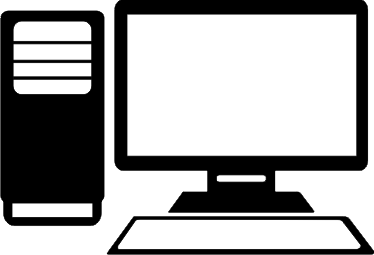
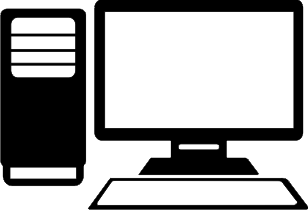
Shrink the images more Eager loading of the images Update the text in the contact form

diff --git a/app/stylesheets/custom.scss b/app/stylesheets/custom.scss
@@ -1,5 +1,13 @@
 @import 'bootstrap';
 
+@mixin rotate-object($deg) {
+  -webkit-transform: rotate($deg);
+  -moz-transform: rotate($deg);
+  -o-transform: rotate($deg);
+  -ms-transform: rotate($deg);
+  transform: rotate($deg);
+}
+
 input.incorrect, textarea.incorrect {
   border-color: rgba(82, 168, 236, 0.8);
   outline: 0;
@@ -110,7 +118,7 @@ footer {
 h1 {
   width: 100%;
   text-align: center;
-  margin-bottom: 5%;
+  margin-bottom: 1.5em;
 }
 
 label {
@@ -146,32 +154,47 @@ input {
   margin-top: 1em;
 }
 
-.step h2 {
-  /*background: url('Icons/cloud.svg');*/
-  background: url('images/cloud.svg') no-repeat;
-  color: #245783;
-  font-weight: 500;
+.icons {
+  display: inline-block;
   width: 100%;
+  margin-bottom: 1em;
+  > img {
+    margin-left: 15%;
+
+    &:first-child {
+      margin-left: 18%;
+    }
+
+    &:last-child {
+      margin-left: 13%;
+    }
+  }
 }
 
 #phone {
   content: image-url('phone.png');
-  margin-left: 10%;
-  position: relative;
-  top: -10px;
+  display: inline-block;
 }
 
 #watch {
   content: image-url('watch.png');
   display: inline-block;
-  margin-left: 20%;
+  padding: 0 1em;
+}
+
+#phone.active {
+  content: image-url('phone_selected.png');
+  @include rotate-object(360deg);
+}
+
+#watch.active {
+  content: image-url('selected_watch.png');
+  @include rotate-object(360deg);
 }
 
 #computer {
   display: inline-block;
   content: image-url('computer.png');
-  float: right;
-  margin-right: 5%;
 
   &.active {
     content: image-url('computer_selected.png');
@@ -184,14 +207,6 @@ input {
   -o-transition: all 0.5s ease;
   -ms-transition: all 0.5s ease;
   transition: all 0.5s ease;
-}
-
-@mixin rotate-object($deg) {
-  -webkit-transform: rotate($deg);
-  -moz-transform: rotate($deg);
-  -o-transform: rotate($deg);
-  -ms-transform: rotate($deg);
-  transform: rotate($deg);
 }
 
 .rotate:hover {
@@ -210,6 +225,12 @@ input {
   }
 }
 
+.form-control, .btn {
+  border-radius: 3px;
+}
+h3 {
+  margin-bottom: 0.5em;
+}
 input.form-control {
   height: 20%;
   width: 60%;
@@ -225,26 +246,6 @@ input.form-control {
 
 .status.failed {
   color: red;
-}
-
-.icons {
-  display: inline-block;
-  width: 100%;
-  height: 145pt;
-  margin-bottom: 15%;
-}
-
-#phone.active {
-  content: image-url('phone_selected.png');
-  position: relative;
-  top: 0px;
-  @include rotate-object(360deg);
-}
-
-#watch.active {
-  content: image-url('selected_watch.png');
-  @include rotate-object(360deg);
-
 }
 
 .step > div {
